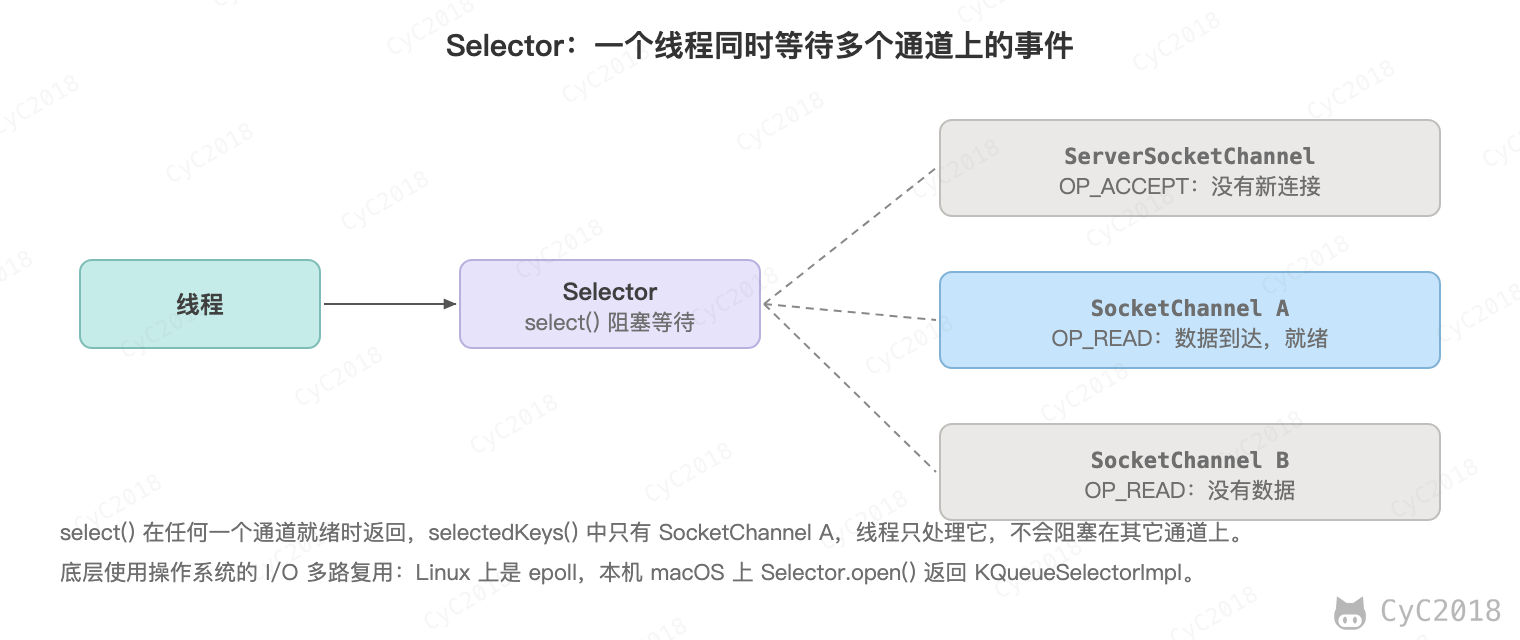
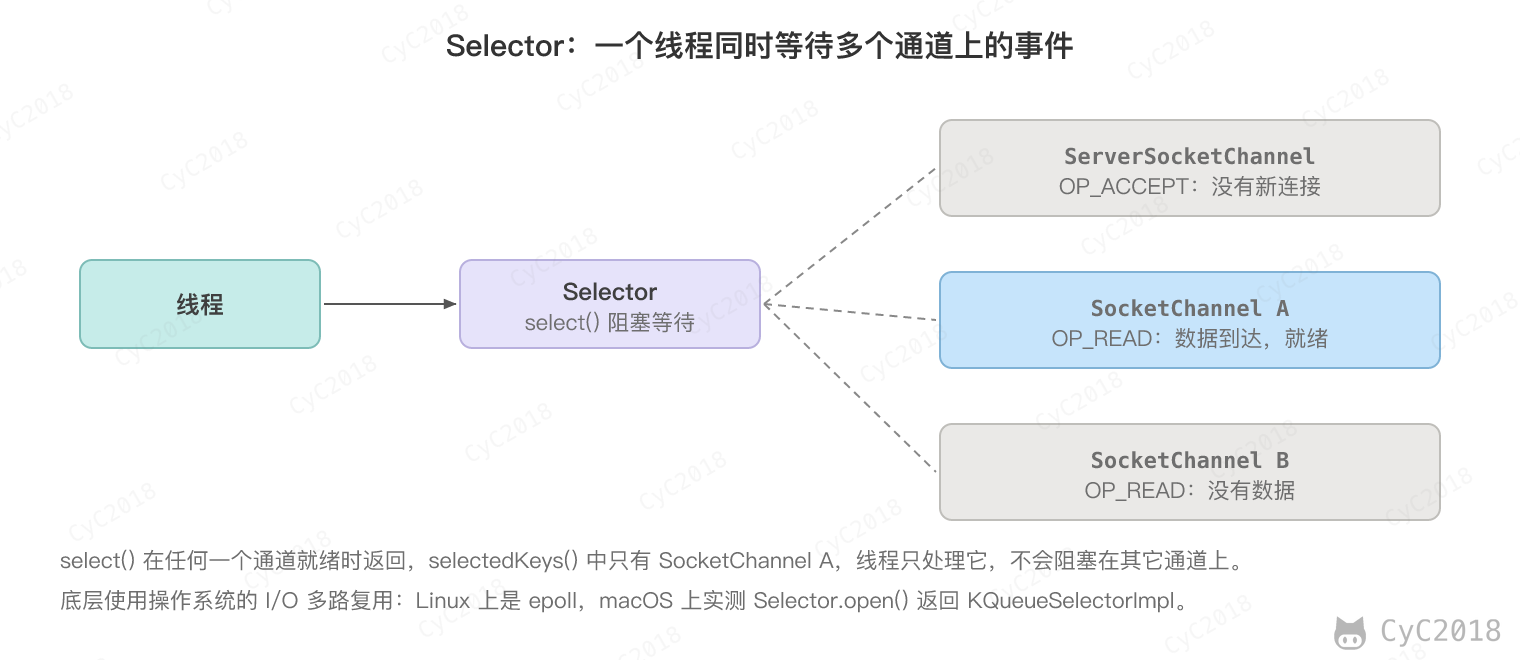
Update Java IO.md
参考资料中已下线的文章保留标题并注明；Selector 配图的说明补充实测限定。

diff --git a/notes/Java IO.md b/notes/Java IO.md
@@ -599,12 +599,12 @@ NIO 与普通 I/O 的区别主要有以下两点：
 - [The Java Tutorials: Basic I/O](https://docs.oracle.com/javase/tutorial/essential/io/)
 - [JEP 353: Reimplement the Legacy Socket API](https://openjdk.org/jeps/353)
 - [Java SE 21 API: MappedByteBuffer](https://docs.oracle.com/en/java/javase/21/docs/api/java.base/java/nio/MappedByteBuffer.html)
-- [IBM: NIO 入门](https://www.ibm.com/developerworks/cn/education/java/j-nio/j-nio.html)
+- NIO 入门（IBM developerWorks 中文站，已下线）
 - [Java NIO Tutorial](https://jenkov.com/tutorials/java-nio/index.html)
 - [Java NIO 浅析](https://tech.meituan.com/2016/11/04/nio.html)
-- [IBM: 深入分析 Java I/O 的工作机制](https://www.ibm.com/developerworks/cn/java/j-lo-javaio/index.html)
-- [IBM: 深入分析 Java 中的中文编码问题](https://www.ibm.com/developerworks/cn/java/j-lo-chinesecoding/index.html)
-- [IBM: Java 序列化的高级认识](https://www.ibm.com/developerworks/cn/java/j-lo-serial/index.html)
+- 深入分析 Java I/O 的工作机制（IBM developerWorks 中文站，已下线）
+- 深入分析 Java 中的中文编码问题（IBM developerWorks 中文站，已下线）
+- Java 序列化的高级认识（IBM developerWorks 中文站，已下线）
 - [NIO 与传统 IO 的区别](https://web.archive.org/web/20250917122905/https://blog.csdn.net/shimiso/article/details/24990499)
 - [Decorator Design Pattern](http://stg-tud.github.io/sedc/Lecture/ws13-14/5.3-Decorator.html#mode=document)
 - [Socket Multicast](http://labojava.blogspot.com/2012/12/socket-multicast.html)
